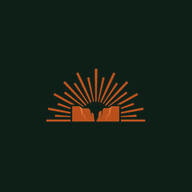
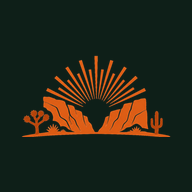
Rebrand to Casino El Primo
The owner's new name and logo: cut out for the felt, a cream version for
the dark welcome screen, and the emblem for the top bar and app icons.
Name, title, manifest and README updated; Tornillo assets removed.

Claude-Session: https://claude.ai/code/session_012CYfvXGvAp14qLjkS95G7a

Changed region(s): [[0.125, 0.2812, 0.9062, 0.7188]]

diff --git a/src/v2/table/Visuals.tsx b/src/v2/table/Visuals.tsx
@@ -5,7 +5,7 @@ import { SHOE, CARD_H, CARD_W, FELT_H } from './layout';
 import type { PlacedCard } from './useTableGame';
 import { money } from '../bankroll';
 
-/** Card back: the Tornillo sun and mesa, cream on desert orange. */
+/** Card back: the El Primo sun and canyon, cream on desert orange. */
 function CardBack() {
   const rays = Array.from({ length: 13 }, (_, i) => Math.PI + (i * Math.PI) / 12);
   return (
@@ -163,7 +163,7 @@ export function BetStack({ amount, x, y }: { amount: number; x: number; y: numbe
   );
 }
 
-/** Printed felt: the Casino Tornillo logo in the middle and the rules arc below the dealer. */
+/** Printed felt: the Casino El Primo logo in the middle and the rules arc below the dealer. */
 export function FeltPrint({ rules }: { rules: Rules }) {
   const bj = rules.bjPayout === 1.5 ? 'BLACKJACK PAYS 3 TO 2' : 'BLACKJACK PAYS 6 TO 5';
   const s17 = rules.h17 ? 'Dealer hits soft 17' : 'Dealer stands on all 17s';
@@ -184,7 +184,7 @@ export function FeltPrint({ rules }: { rules: Rules }) {
           {s17} · insurance pays 2 to 1
         </textPath>
       </text>
-      <image href={`${base}brand/tornillo-logo.png`} x="30" y="44" width="40" height="30.3" opacity="0.92" preserveAspectRatio="xMidYMid meet" />
+      <image href={`${base}brand/el-primo-logo.png`} x="31.5" y="41" width="37" height="31.5" opacity="0.92" preserveAspectRatio="xMidYMid meet" />
     </svg>
   );
 }

diff --git a/src/v2/coach/ai.ts b/src/v2/coach/ai.ts
@@ -11,7 +11,7 @@ import { recentEvents } from './history';
 
 export const COACH_MODEL = 'claude-opus-5-5';
 
-const SYSTEM = `You are the coach inside Casino Tornillo, a blackjack practice app. The player is learning in three modes: basic strategy; then counting cards with Hi-Lo (running and true count) and raising bets when the count is good; then count plays (deviations).
+const SYSTEM = `You are the coach inside Casino El Primo, a blackjack practice app. The player is learning in three modes: basic strategy; then counting cards with Hi-Lo (running and true count) and raising bets when the count is good; then count plays (deviations).
 
 How to coach:
 - Talk like a friendly, sharp table regular who teaches well. Plain words. No jargon unless you explain it in the same sentence.

diff --git a/src/v2/screens/Welcome.tsx b/src/v2/screens/Welcome.tsx
@@ -8,7 +8,7 @@ export function Welcome() {
   return (
     <div className="frame" style={{ justifyContent: 'center' }}>
       <div className="page" style={{ gap: 22, paddingTop: 40 }}>
-        <img src={`${import.meta.env.BASE_URL}brand/tornillo-logo-cream.png`} alt={BRAND.long} style={{ width: '82%', maxWidth: 340, alignSelf: 'center' }} />
+        <img src={`${import.meta.env.BASE_URL}brand/el-primo-logo-cream.png`} alt={BRAND.long} style={{ width: '82%', maxWidth: 340, alignSelf: 'center' }} />
         <p style={{ fontSize: 30, lineHeight: 1.05, margin: 0 }} className="display">
           Play the hand. <span className="serif" style={{ fontSize: 34 }}>Learn the edge.</span>
         </p>

diff --git a/src/v2/icons.tsx b/src/v2/icons.tsx
@@ -68,7 +68,7 @@ export function Mark({ size = 26, color = 'currentColor', sun = 'var(--coral)' }
   );
 }
 
-/** The Casino Tornillo emblem (sun rays over the mesa), from the brand artwork. */
+/** The Casino El Primo emblem (sun rays over the canyon), from the brand artwork. */
 export function Emblem({ height = 22 }: { height?: number }) {
-  return <img src={`${import.meta.env.BASE_URL}brand/tornillo-emblem.png`} alt="" height={height} style={{ height, width: 'auto', display: 'block' }} />;
+  return <img src={`${import.meta.env.BASE_URL}brand/el-primo-emblem.png`} alt="" height={height} style={{ height, width: 'auto', display: 'block' }} />;
 }

diff --git a/index.html b/index.html
@@ -7,7 +7,7 @@
     <meta name="description" content="Learn to play blackjack right, count cards and bet like a pro. Practice table, play money." />
     <link rel="icon" type="image/png" href="./icon-192.png" />
     <link rel="apple-touch-icon" href="./icon-192.png" />
-    <title>Casino Tornillo</title>
+    <title>Casino El Primo</title>
   </head>
   <body style="margin: 0; background: #0b1712">
     <!-- Shown instantly, before any code arrives (React replaces it). On a weak signal you see this, never a black page. -->

diff --git a/vite.config.ts b/vite.config.ts
@@ -15,8 +15,8 @@ export default defineConfig({
       registerType: 'autoUpdate',
       includeAssets: ['icon.svg'],
       manifest: {
-        name: 'Casino Tornillo',
-        short_name: 'Tornillo',
+        name: 'Casino El Primo',
+        short_name: 'El Primo',
         description: 'Learn to play blackjack right, count cards and bet like a pro. Practice table, play money.',
         theme_color: '#0b1712',
         background_color: '#0b1712',

diff --git a/src/v2/theme.css b/src/v2/theme.css
@@ -1,5 +1,5 @@
 /*
- * Casino Tornillo theme: a dimly lit room in deep green, a cream felt table with a black padded rail,
+ * Casino El Primo theme: a dimly lit room in deep green, a cream felt table with a black padded rail,
  * desert orange from the logo for accents and card backs. Ink-outlined cards and controls with hard
  * shadows, colour-blocked actions, condensed display + italic serif accents.
  */

diff --git a/src/v2/brand.ts b/src/v2/brand.ts
@@ -1,6 +1,6 @@
 /** Brand: one place to rename the app. */
 export const BRAND = {
-  name: 'TORNILLO',
-  long: 'Casino Tornillo',
+  name: 'EL PRIMO',
+  long: 'Casino El Primo',
   tagline: 'Blackjack, practiced.',
 };

diff --git a/docs/decisions.md b/docs/decisions.md
@@ -163,3 +163,7 @@ Judgment calls made while building, newest at the bottom of each milestone.
 - **One feedback card (replaces the four lights).** The owner found the lights too busy. Now one card at a time, chosen by the mode: green for a right play ("✓ Double · 11 vs 6", with the next-level hint when there is one), which stays until the next card and fades back once the next hand starts; red for a miss (the right play and a one-line why), which stays, even into the next hand, until it's swiped away, and holds the next deal until then, so the feedback is never cut off. A red card is never replaced by a green one. Tap any card for the full card.
 - **Three modes instead of five steps:** Basic strategy; Count & bet; Full AP (plus count plays). Betting the count comes before count plays because most of a counter's edge is in the bet spread. The fine-tune toggles stay below.
 - **The count lives in the table:** tap the discard tray to be tested or to ask the dealer the count (no Count? button in the top bar); tap the shoe to ask for a shuffle (between hands).
+
+## Casino El Primo
+- **Renamed to Casino El Primo** (the owner's name and logo; "primo" is cousin, with a nod to prime). The logo is cut out of the owner's artwork into `public/brand/el-primo-logo.png` (felt), `el-primo-logo-cream.png` (dark welcome screen) and `el-primo-emblem.png` (top bar, app icons), the same way as before (alpha from the distance to the cream background, colours un-premultiplied so edges stay clean). On the felt it's sized to clear the players' cards.
+- **Direction:** the dealer becomes a character, José, a competent, slightly sketchy dealer who for some reason helps you beat his casino. The engine decides what's correct; José only says it. Polished flat table; no 3D yet. Next: José's voice in the cards, an end-of-session report, and sharing with friends (each device keeps its own stats).

diff --git a/README.md b/README.md
@@ -1,4 +1,4 @@
-# Casino Tornillo
+# Casino El Primo
 
 A blackjack table in your pocket that teaches you to play like an advantage player, one layer at a time:
 
@@ -18,7 +18,7 @@ Install it from Safari's share menu or Chrome's menu with *Add to Home Screen*. 
 
 ## How it plays
 - **A real table:**
-  - A cream felt with the Casino Tornillo logo, a black padded rail, and up to 6 players in an arc that runs edge to edge.
+  - A cream felt with the Casino El Primo logo, a black padded rail, and up to 6 players in an arc that runs edge to edge.
   - Dealer, shoe, the posted table-limits sign and a smoked acrylic discard tray along the top. The tray stack grows exactly with the cards played, with a tick per deck, so you read decks played the way counters do. You can't see how many cards are left in the shoe, just like a real table.
   - You choose your seat, and play one or two spots.
   - Cards slide out of the shoe to a fixed spot and stay there. Every card stays readable, and nothing jiggles.
